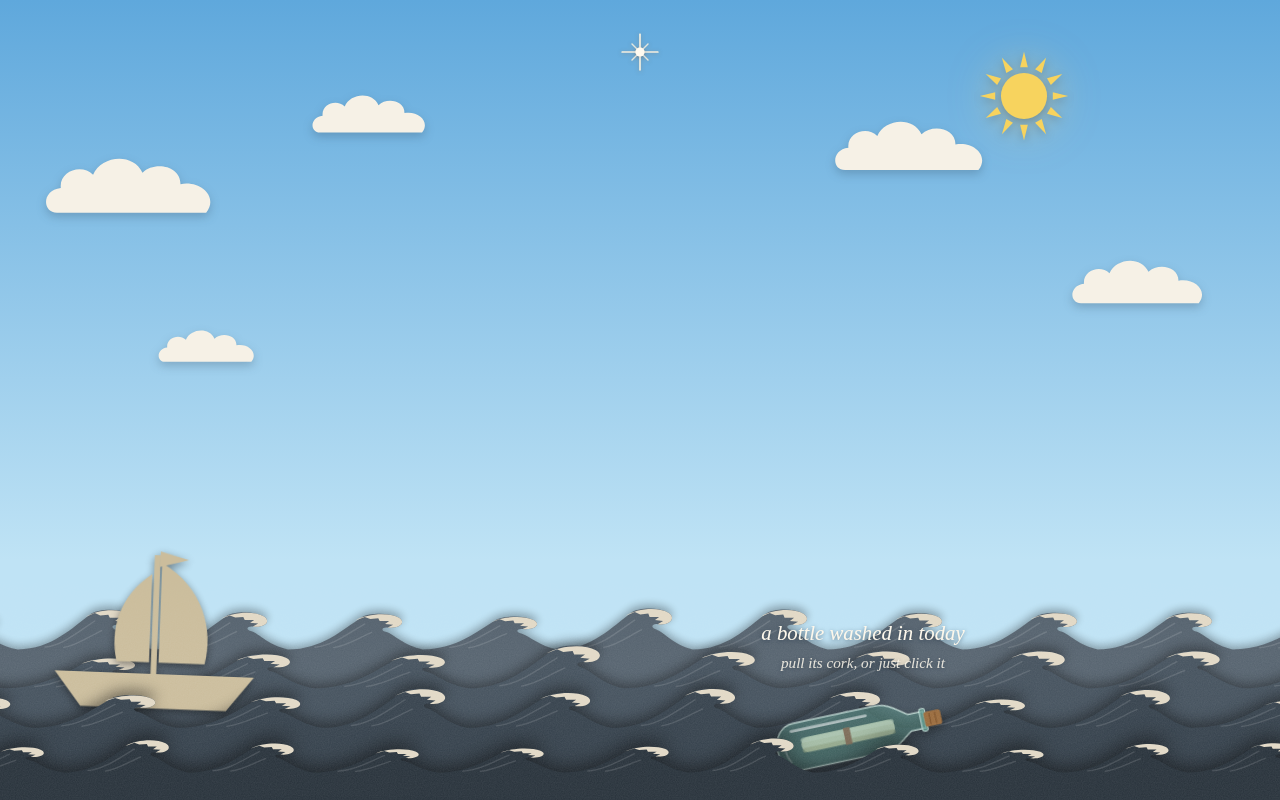
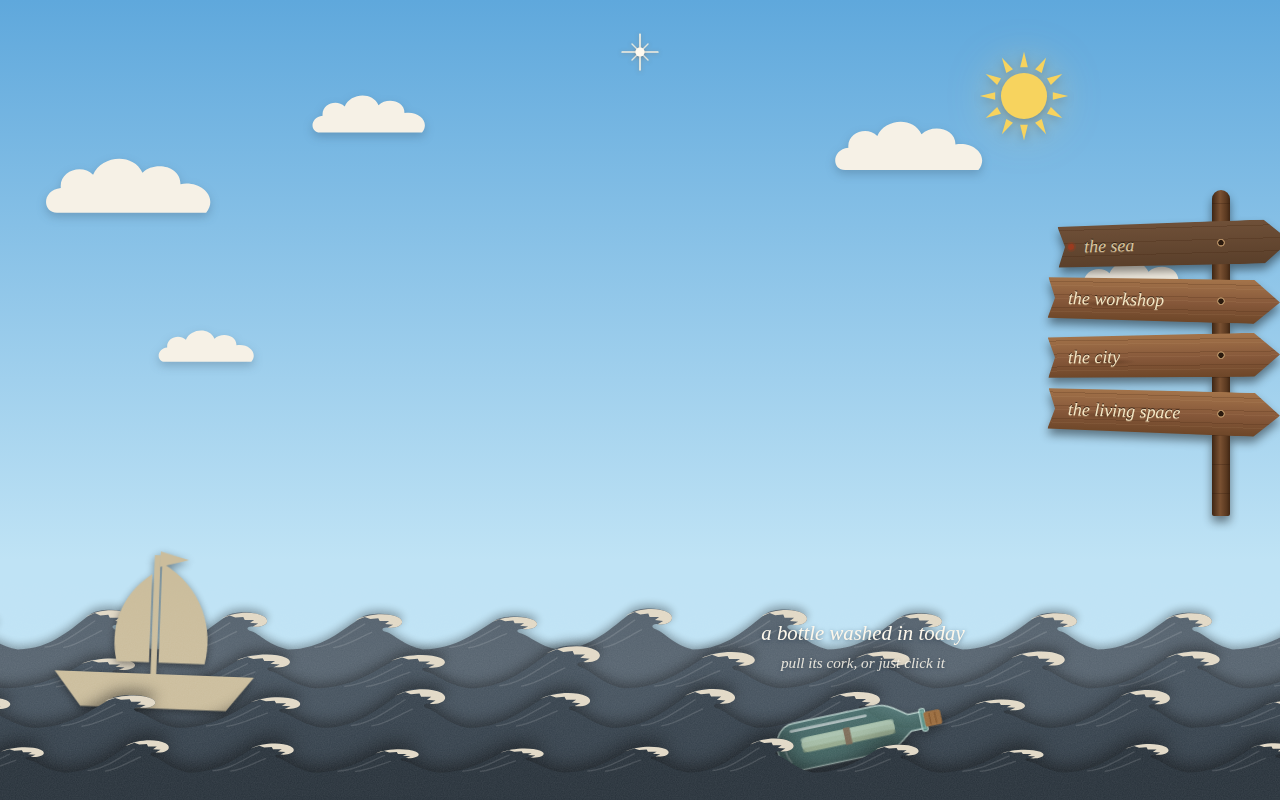
Upload files to "/"

Changed region(s): [[0.8125, 0.2188, 1.0, 0.6562]]

diff --git a/workshop.html b/workshop.html
@@ -20,7 +20,7 @@
         .bench   { left: 4%;  right: 4%; bottom: 0; height: 30vh; }
         .shelf   { left: 6%;  top: 40%; width: 30%; }
         .lantern { left: 26%; top: 0;   width: 60px; }
-        .tools   { right: 4%; top: 18%; width: 11%; }
+        .tools   { left: 37%; top: 15%; width: 8%; }
 
         .lantern .glow { opacity: calc(.25 + .75 * var(--dusk)); }
 
@@ -62,7 +62,7 @@
         }
     </style>
 </head>
-<body data-voyage="300">
+<body data-place="workshop" data-voyage="300">
 
     <!-- =====================================================================
          A ROOM

diff --git a/template.html b/template.html
@@ -35,6 +35,10 @@
        sky/ground-city.js          skyline, windows light up at dusk
 
      Options on <body>:
+       data-place="…"      which place this page is (see PLACES at the top of
+                           sky/sky.js); its sign then reads "you are here".
+                           add your new page to PLACES to give it a sign
+                           and a constellation.
        data-voyage="110"   how much empty sky to scroll after your content
                            (in % of screen height; bigger = slower sunset)
        data-page="home"    only on the homepage
